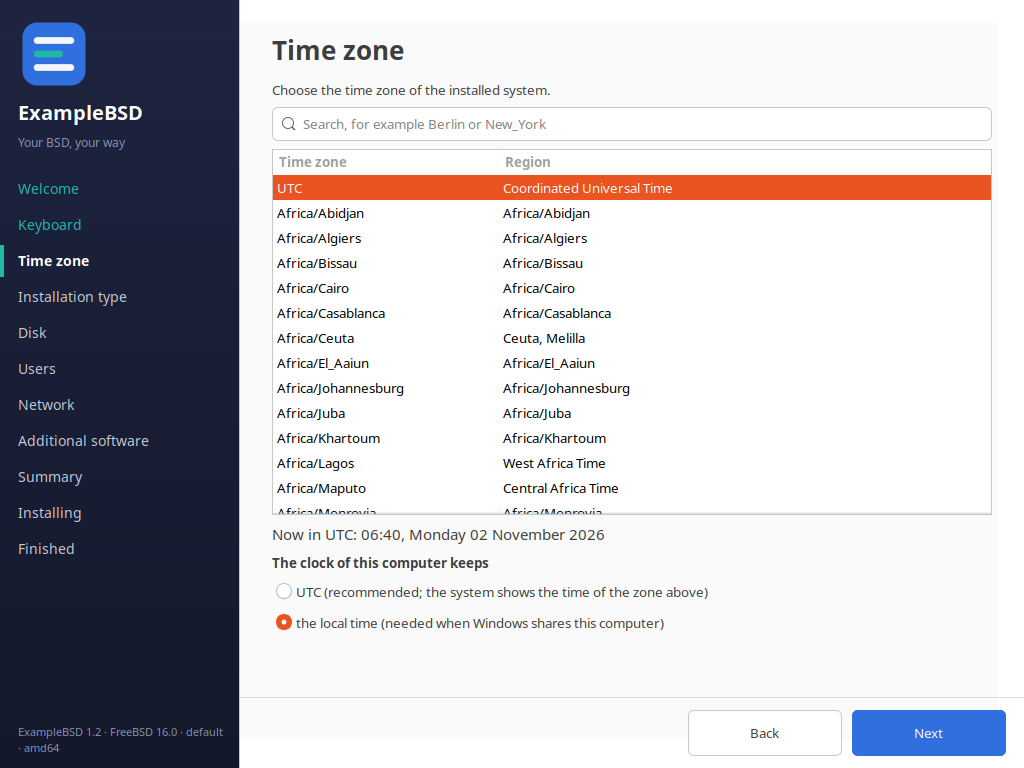
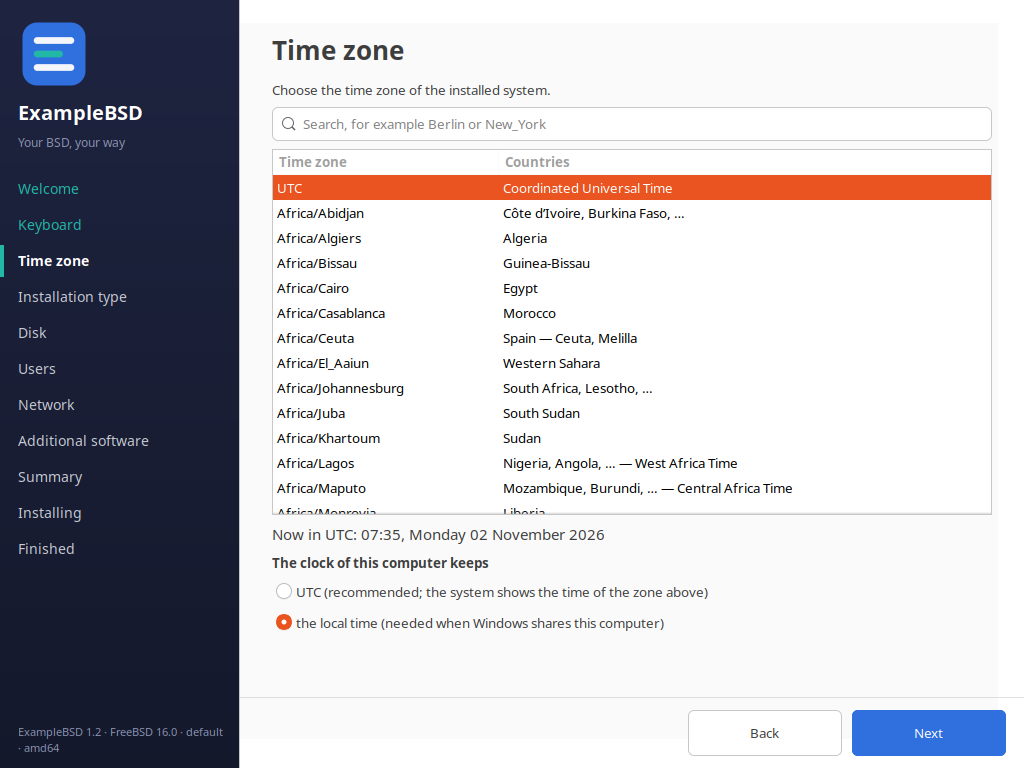
#1675 installer-template: time zones show their countries
The second column of the time-zone list repeated the zone. It now shows
up to two countries of the zone (from the tzdb's iso3166.tab, public
domain, as lib/iso3166.tab), then the zone's comment: "Cote d'Ivoire,
Burkina Faso, ...", "United States - Eastern (most areas)". The search
matches every country of a zone ("norway" finds Europe/Berlin, whose
countries are DE, DK, NO, SE, SJ).

- zone_list (lib/backend.sh) builds the list for the adapter and the
  section's fallback; a real system's own country table is used when it
  sits next to its zone table (illumos: tab/country.tab).
- The country table is told apart by its file name: with FNR == NR an
  empty or missing country table made the zone table read as the
  countries and the list came out empty.
- The time-zone section writes its JSON with Python: the shell clean-up
  stripped everything outside ASCII ("Cte dIvoire").

Tests: 64 cases, 0 failed. Case 94: the column for Africa/Abidjan and
America/New_York, the "norway" search, and the zone list without a
country table (red on the first version of this change).

Review: scanners clean; security NO FINDINGS. Taken: the FNR == NR
empty-table bug (quality, correctness). Not taken: "norway cannot find
Europe/Berlin" - the current zone1970.tab lists NO under Europe/Berlin.

Stewardship:
- Honcho: LESSON the awk FNR == NR idiom breaks when the first file is
  empty; tell files apart by FILENAME.
- Ticket: #1675
[…]

diff --git a/lib/gui.py b/lib/gui.py
@@ -243,9 +243,10 @@ def monitor_size():
     return max(area.width, 640), max(area.height, 480)
 
 
-def item_list(columns, activate=None):
-    """A list of rows: a ListStore, its view and its scroller."""
-    store = Gtk.ListStore(*([str] * len(columns)))
+def item_list(columns, activate=None, hidden=0):
+    """A list of rows: a ListStore, its view and its scroller; hidden more
+    text columns in the store that are not shown (what a search matches)."""
+    store = Gtk.ListStore(*([str] * (len(columns) + hidden)))
     view = Gtk.TreeView(model=store)
     view.set_headers_visible(True)
     for index, title in enumerate(columns):
@@ -1017,7 +1018,8 @@ class InstallerWindow(Gtk.Window):
         self.tz_search = Gtk.SearchEntry()
         self.tz_search.set_placeholder_text("Search, for example Berlin or New_York")
         box.pack_start(self.tz_search, False, False, 0)
-        self.tz_store, self.tz_view, scroller = item_list(("Time zone", "Region"), self.act_next)
+        self.tz_store, self.tz_view, scroller = item_list(("Time zone", "Countries"), self.act_next,
+                                                          hidden=1)
         self.tz_filter = self.tz_store.filter_new()
         self.tz_filter.set_visible_func(self.tz_visible)
         self.tz_view.set_model(self.tz_filter)
@@ -1037,13 +1039,15 @@ class InstallerWindow(Gtk.Window):
         return box
 
     def tz_visible(self, model, it, _data):
+        # The zone, its countries (every one of them) and the comment.
         text = self.tz_search.get_text().strip().lower().replace(" ", "_")
-        return not text or text in (model[it][0] + " " + model[it][1]).lower().replace(" ", "_")
+        where = " ".join(model[it][i] or "" for i in range(3))
+        return not text or text in where.lower().replace(" ", "_")
 
     def enter_timezone(self):
         if not len(self.tz_store):
             for item in self.wiz.zones():
-                self.tz_store.append([item.name, item.descr])
+                self.tz_store.append([item.name, item.descr, item.search])
         select_name(self.tz_view, self.wiz.answers.timezone)
         (self.clock_local if self.wiz.answers.clock == "local" else self.clock_utc).set_active(True)
         # Windows on a disk of this computer keeps the clock in local time.
@@ -2183,6 +2187,7 @@ def _report_lists_and_eyes(win, shot, page, state, outdir):
     out = {}
     if page == "timezone":
         out["zones"] = len(win.tz_store)
+        out["descr"] = {row[0]: row[1] for row in win.tz_store}
         win.tz_search.set_text(state.get("search", ""))
         win.tz_filter.refilter()
         out["filtered"] = [row[0] for row in win.tz_filter]

diff --git a/lib/wizard.py b/lib/wizard.py
@@ -143,6 +143,7 @@ class Item:
     name: str
     descr: str = ""
     size_bytes: int = 0
+    search: str = ""
 
 
 def human_size(size: int) -> str:
@@ -357,7 +358,7 @@ def items_of(data: dict, key: str) -> List[Item]:
             continue
         size = raw.get("size_bytes", 0)
         out.append(Item(str(raw["name"]), str(raw.get("descr") or raw["name"]),
-                        int(size) if isinstance(size, int) else 0))
+                        int(size) if isinstance(size, int) else 0, str(raw.get("search") or "")))
     return out
 
 
